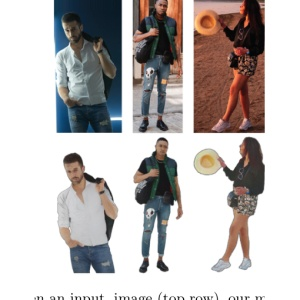
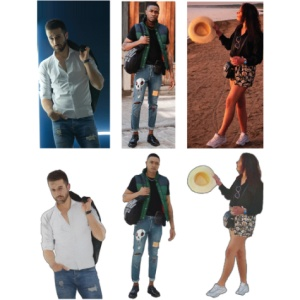
thumbnail fullbodylighting cvpr update

diff --git a/generate_thumbnails.py b/generate_thumbnails.py
@@ -25,7 +25,7 @@ cases = {
 			'chalmers2022illumination':(1,((0.08,0.15),(0.4,0.7))),
 			'chen2022casual':(1,((0.05,0.05),(0.17,0.25))),
 			'weir2022deep':(1,((0.15,0.345),(0.2,0.2))),
-			'weir2024full':(1,((0.15,0.3),(0.3,0.23))),
+			'weir2024full':(1,((0.14,0.3),(0.29,0.23))),
 			'rhee2022teleport':(0,((0.34,0.61),(0.15,0.18))),
 			'zhao2021adaptive':(0,((0.17,0.125),(0.13,0.25))),
 			'suppan2021neural':(1,((0.11,0.7),(0.18,0.18))),
